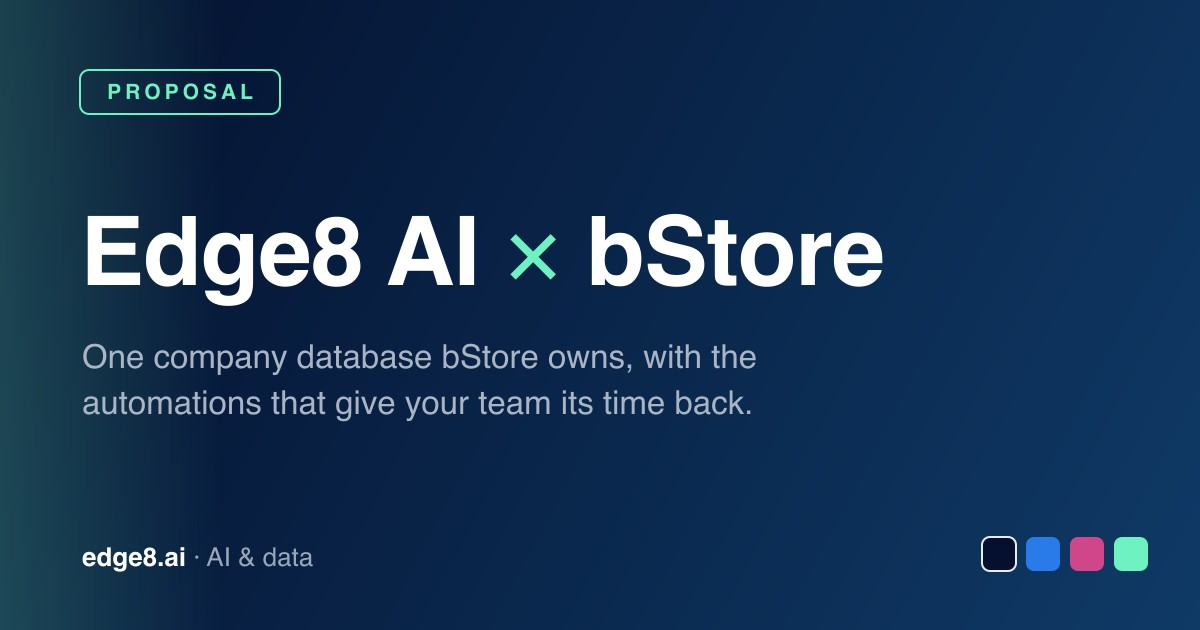
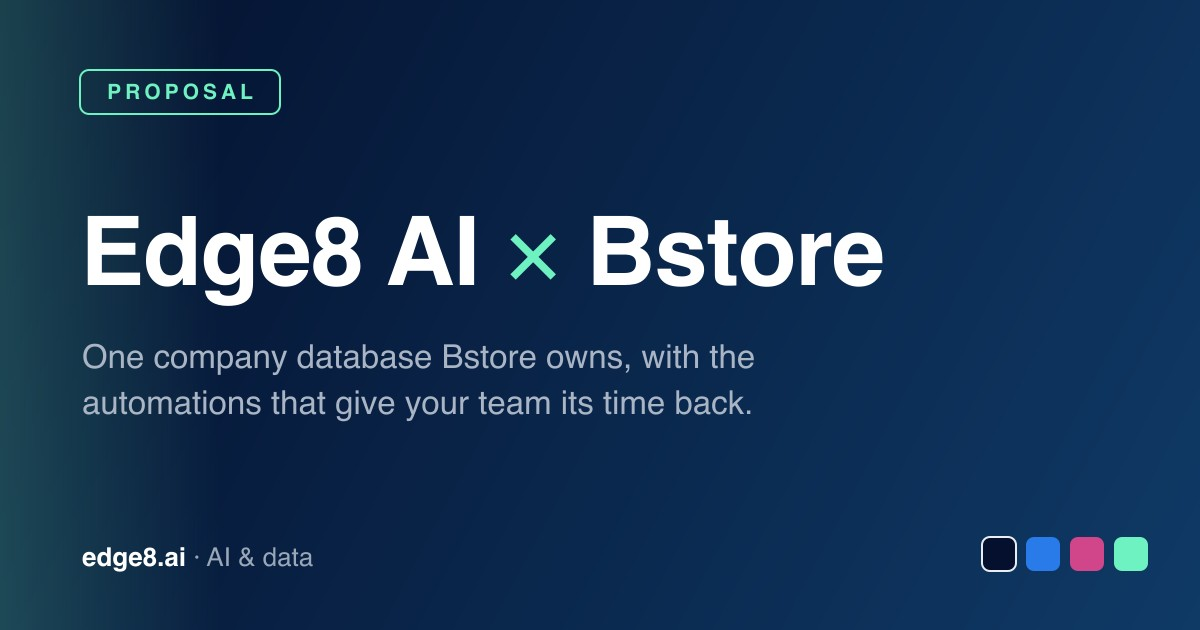
docs(proposals): fix Bstore capitalization (was bStore) (#183)
Corrects the client name to Bstore throughout the proposal copy and meta
tags, and regenerates the OG share card to match. Filename/URL slug stays
lowercase (bstore-proposal.html).

Changed region(s): [[0.37, 0.5429, 0.6475, 0.6032], [0.4933, 0.3317, 0.5858, 0.4524]]

diff --git a/public/proposals/bstore-proposal.html b/public/proposals/bstore-proposal.html
@@ -4,24 +4,24 @@
 <meta charset="UTF-8">
 <meta name="viewport" content="width=device-width, initial-scale=1.0">
 <meta name="robots" content="noindex, nofollow">
-<title>Edge8 AI &times; bStore: AI Program Proposal | Edge8</title>
-<meta name="description" content="A two-track plan for bStore: one company database it owns with the automations that give the team its time back, plus AI Officer certification for 30 to 40 of its people.">
+<title>Edge8 AI &times; Bstore: AI Program Proposal | Edge8</title>
+<meta name="description" content="A two-track plan for Bstore: one company database it owns with the automations that give the team its time back, plus AI Officer certification for 30 to 40 of its people.">
 <link rel="icon" type="image/png" href="/favicon.png">
 <link rel="apple-touch-icon" href="/apple-touch-icon.png">
 <!-- Open Graph -->
 <meta property="og:type" content="website">
 <meta property="og:site_name" content="Edge8 AI">
-<meta property="og:title" content="Edge8 AI &times; bStore: AI Program Proposal">
-<meta property="og:description" content="One company database bStore owns, with the automations that give the team its time back, plus AI Officer certification for 30 to 40 of its people.">
+<meta property="og:title" content="Edge8 AI &times; Bstore: AI Program Proposal">
+<meta property="og:description" content="One company database Bstore owns, with the automations that give the team its time back, plus AI Officer certification for 30 to 40 of its people.">
 <meta property="og:image" content="https://www.edge8.ai/og/bstore-proposal.jpg">
 <meta property="og:image:width" content="1200">
 <meta property="og:image:height" content="630">
-<meta property="og:image:alt" content="Edge8 AI x bStore: AI Program Proposal">
+<meta property="og:image:alt" content="Edge8 AI x Bstore: AI Program Proposal">
 <meta property="og:url" content="https://www.edge8.ai/proposals/bstore-proposal.html">
 <!-- Twitter -->
 <meta name="twitter:card" content="summary_large_image">
-<meta name="twitter:title" content="Edge8 AI &times; bStore: AI Program Proposal">
-<meta name="twitter:description" content="One company database bStore owns, with the automations that give the team its time back, plus AI Officer certification for 30 to 40 of its people.">
+<meta name="twitter:title" content="Edge8 AI &times; Bstore: AI Program Proposal">
+<meta name="twitter:description" content="One company database Bstore owns, with the automations that give the team its time back, plus AI Officer certification for 30 to 40 of its people.">
 <meta name="twitter:image" content="https://www.edge8.ai/og/bstore-proposal.jpg">
 <style>
   :root{
@@ -312,9 +312,9 @@
   <header>
     <div class="eyebrow">Edge8 &nbsp;·&nbsp; Proposal</div>
     <h1>From Documented Workflows to a Company OS You Own</h1>
-    <p class="sub">A two-track plan for bStore: turn two quarters of workflow mapping into a central database you own, with the automations that give an under-resourced team its time back, and certify 30 to 40 of your people as AI Officers.</p>
+    <p class="sub">A two-track plan for Bstore: turn two quarters of workflow mapping into a central database you own, with the automations that give an under-resourced team its time back, and certify 30 to 40 of your people as AI Officers.</p>
     <div class="meta">
-      <div><span>Prepared for</span>Sean Rohald, bStore</div>
+      <div><span>Prepared for</span>Sean Rohald, Bstore</div>
       <div><span>Prepared by</span>Dave Hajdu &amp; Quan Chau, Edge8</div>
       <div><span>Date</span>10 July 2026</div>
       <div><span>Status</span>For confirmation</div>
@@ -337,7 +337,7 @@
     <h2>The idea</h2>
     <h3>It starts with owning your data</h3>
     <p>Most AI stalls for the same reason yours has: the data is scattered across tools that don't talk to each other, and every SaaS app you rent keeps your data in its database, not yours. If you ask a person to make a decision without the information in front of them, they can't. It is no different for AI. That is why so many teams are more productive with LLMs but stuck on what comes next.</p>
-    <p>So we stopped renting and started owning. We built <strong>Company OS</strong>, a company-database platform we run our own companies on, already covering CRM, HR, commerce, content, and reporting. That gives us a proven foundation to start from instead of a blank page. We map your data, stand up a central database <em>you</em> own, and build rapidly to your specifications on top of it, starting with the modules that fit a retailer. Where a tool you use today holds data you need, we can pull it in, so you consolidate onto a system you own at your own pace. The foundation is the head start; the build from there is shaped to how bStore actually works, on a clear meter once it is proven.</p>
+    <p>So we stopped renting and started owning. We built <strong>Company OS</strong>, a company-database platform we run our own companies on, already covering CRM, HR, commerce, content, and reporting. That gives us a proven foundation to start from instead of a blank page. We map your data, stand up a central database <em>you</em> own, and build rapidly to your specifications on top of it, starting with the modules that fit a retailer. Where a tool you use today holds data you need, we can pull it in, so you consolidate onto a system you own at your own pace. The foundation is the head start; the build from there is shaped to how Bstore actually works, on a clear meter once it is proven.</p>
   </section>
 
   <section>
@@ -407,7 +407,7 @@
       </div>
       <div class="box">
         <span class="tag8020 twenty">The 20% · metered</span>
-        <h4>Everything bespoke to bStore</h4>
+        <h4>Everything bespoke to Bstore</h4>
         <ul>
           <li>Automations beyond the first 2 to 4</li>
           <li>Connectors to specialist retail and ecommerce tools (POS, your ecom platform, and more)</li>
@@ -467,7 +467,7 @@
         </ul>
       </div>
       <div class="box">
-        <h4>bStore</h4>
+        <h4>Bstore</h4>
         <ul>
           <li>Nominate the 30 to 40 people for certification</li>
           <li>Share the workflow documentation you already produced, and roughly five reports you'd most want on demand</li>
@@ -487,7 +487,7 @@
       <div class="num">1</div>
       <div class="body">
         <h4>If the 80% assumption doesn't hold for a retailer your size</h4>
-        <p>The foundation rests on roughly 80% of what you need already existing in Company OS. If bStore is more bespoke than it looks, a fixed build would be wrong for both sides.</p>
+        <p>The foundation rests on roughly 80% of what you need already existing in Company OS. If Bstore is more bespoke than it looks, a fixed build would be wrong for both sides.</p>
         <div class="mitigation">How we handle it</div>
         <p>This is exactly what the mapping and roadmap sprint is for, and it carries the money-back gate. If the map shows a heavier job, the roadmap says so, and you can take the refund and stop there knowing exactly where you stand. The build only proceeds on a "go".</p>
       </div>
@@ -517,7 +517,7 @@
   <section>
     <h2>Build it with us</h2>
     <h3>An optional private Infinite Leverage retreat</h3>
-    <p>If you want to accelerate, the fastest way to make this real is to build it with us in the room. A private, hands-on retreat over three to five days, in Saigon or on-site at bStore, where your team walks in with the roadmap and walks out with working software running on your real data. Optional, and never required to start.</p>
+    <p>If you want to accelerate, the fastest way to make this real is to build it with us in the room. A private, hands-on retreat over three to five days, in Saigon or on-site at Bstore, where your team walks in with the roadmap and walks out with working software running on your real data. Optional, and never required to start.</p>
     <div class="retreat">
       <h4>What you walk out with</h4>
       <div class="price">From $10,500<small> AUD &middot; 3-day private retreat, first person</small></div>
@@ -526,7 +526,7 @@
         <li>The 18 Protocols installed, the operating system for building on your own</li>
         <li>In Saigon: VIP immigration, airport pickup, a private car and driver, daily lunch, and a room at the AIO Pad</li>
       </ul>
-      <p style="margin-bottom:0;">Add $1,500 per extra day, and $1,500 per additional person per day. Or we run it on-site at bStore, quoted per trip. <a class="more" href="https://infiniteleverage-8.com/saigon-private" target="_blank" rel="noopener">More on private retreats &rarr;</a></p>
+      <p style="margin-bottom:0;">Add $1,500 per extra day, and $1,500 per additional person per day. Or we run it on-site at Bstore, quoted per trip. <a class="more" href="https://infiniteleverage-8.com/saigon-private" target="_blank" rel="noopener">More on private retreats &rarr;</a></p>
     </div>
   </section>
 
@@ -538,7 +538,7 @@
   </section>
 
   <footer>
-    <p><strong>A note on EO.</strong> As fellow EO members, we are mutually waiving the EO non-solicitation guideline so we're free to propose business to one another. This is an acknowledgement between members, not a restriction on bStore.</p>
+    <p><strong>A note on EO.</strong> As fellow EO members, we are mutually waiving the EO non-solicitation guideline so we're free to propose business to one another. This is an acknowledgement between members, not a restriction on Bstore.</p>
     <p style="margin-top:14px;"><strong>Edge8</strong> &nbsp;·&nbsp; AI consulting &amp; staffing &nbsp;·&nbsp; David Hajdu &amp; Quan Chau</p>
   </footer>
 
